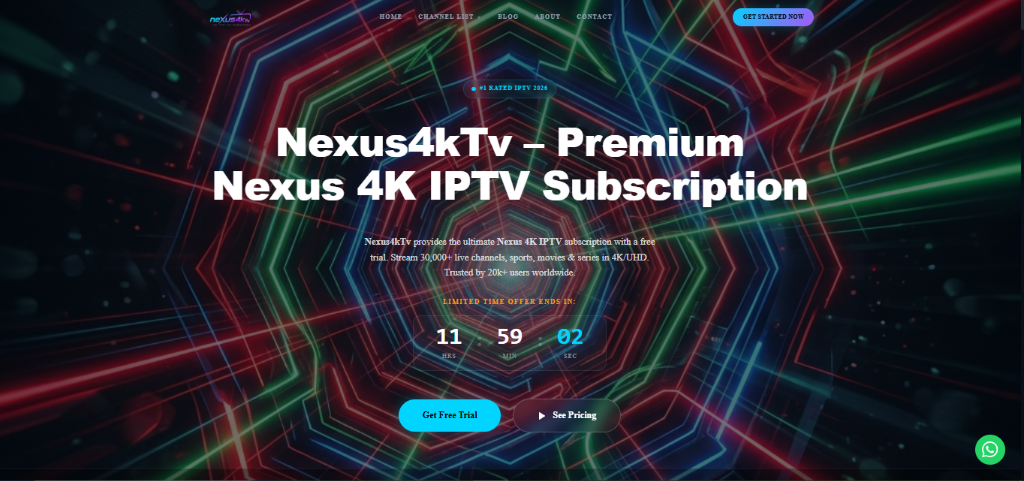
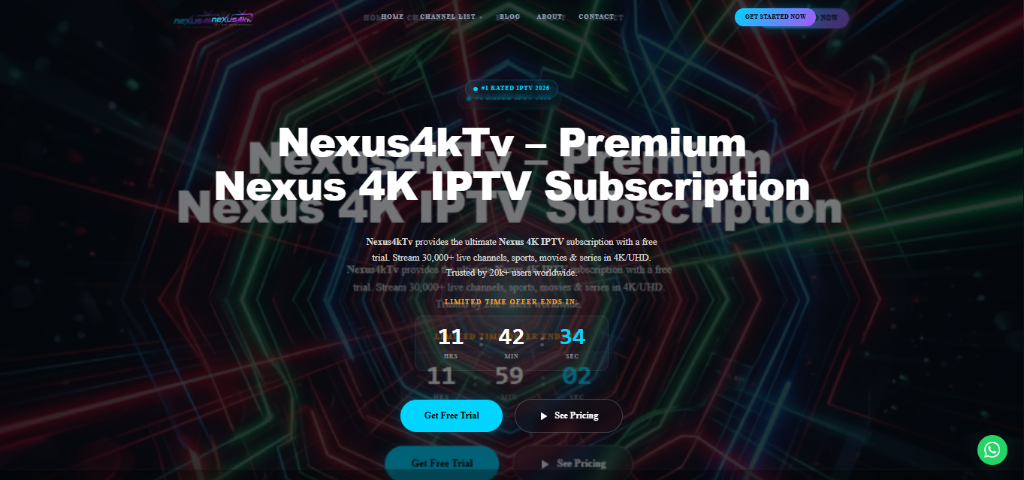
Fix: correct players image + remove ghost doubling from body background

diff --git a/src/styles/globals.css b/src/styles/globals.css
@@ -111,10 +111,6 @@ html {
 body {
   font-family: var(--font-sans);
   background-color: var(--bg-base);
-  background-image: linear-gradient(rgba(2, 4, 8, 0.85), rgba(2, 4, 8, 0.95)), url('/images/players-bg.png');
-  background-size: cover;
-  background-position: center;
-  background-attachment: fixed;
   color: var(--text-primary);
   line-height: 1.6;
   font-size: var(--fs-base);

diff --git a/src/components/sections/HeroSection.module.css b/src/components/sections/HeroSection.module.css
@@ -19,9 +19,9 @@
   height: 100%;
   background-image: url('/images/players-bg.png');
   background-size: cover;
-  background-position: center;
+  background-position: center top;
   z-index: 0;
-  opacity: 0.45; /* Darken a bit for text readability */
+  opacity: 0.55;
   pointer-events: none;
 }
 
